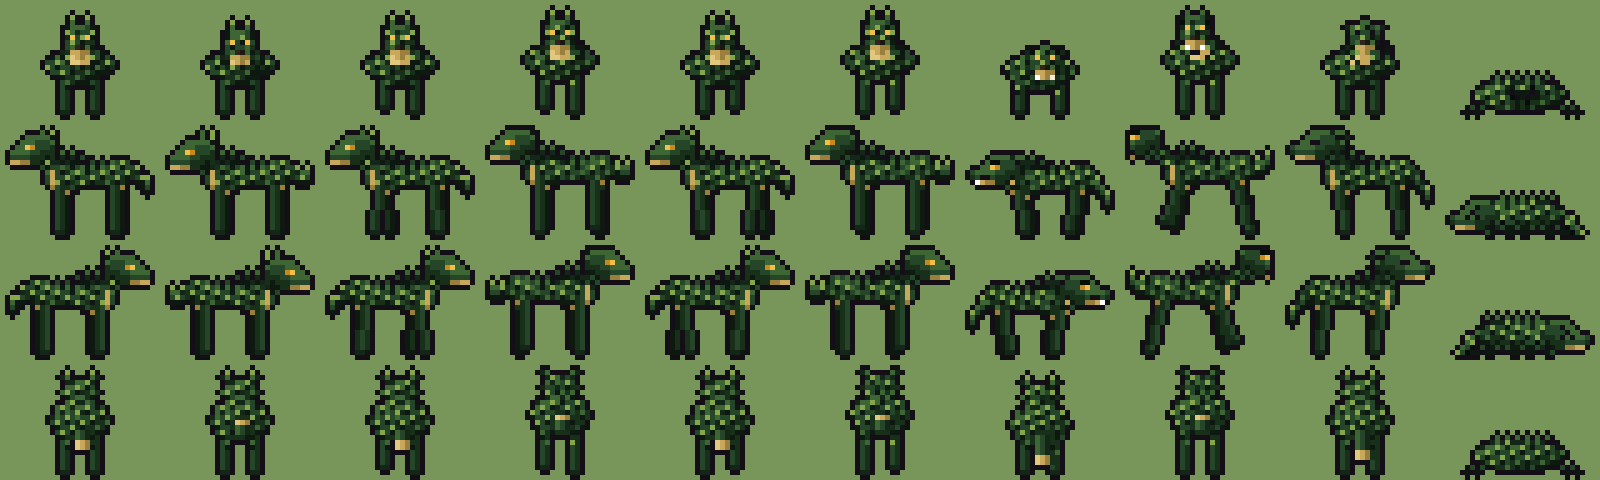
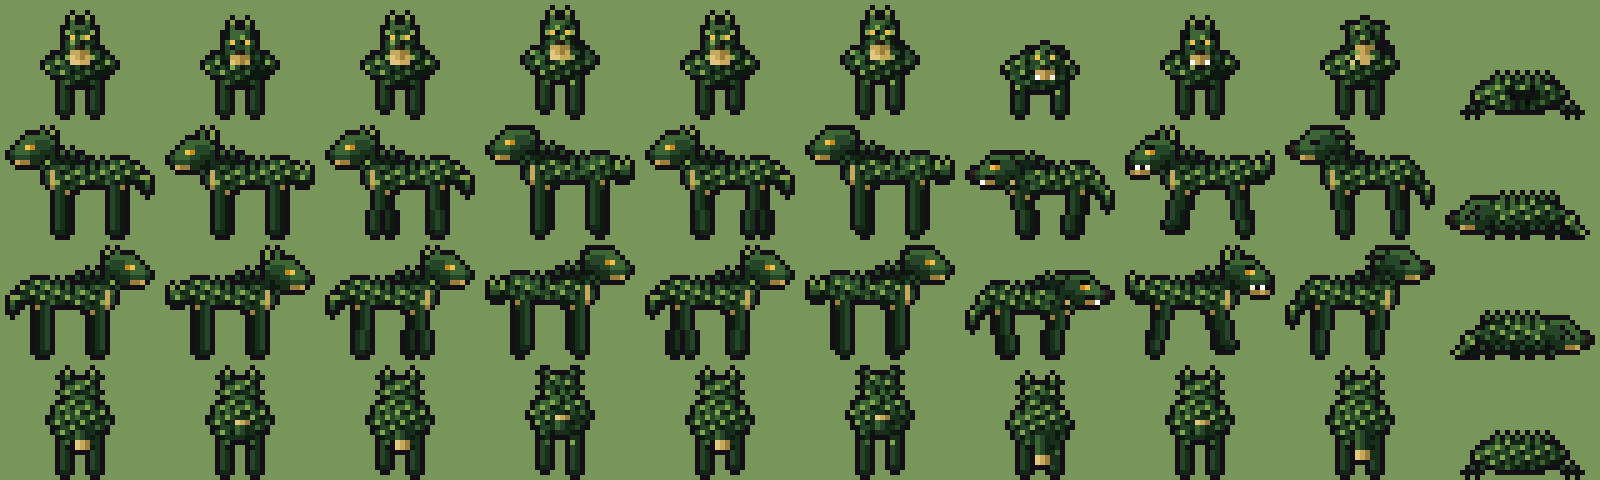
Mobs: Lobo-de-Capim attack pose keeps its head in the frame
The lunge's head was pushed past the frame's left edge and cut into a
squared-off stump. The attack now reaches with the legs and keeps the
same head as every other pose (jaws open, fangs); the muzzle is one
pixel shorter so the nose never touches the frame's edge.

Changed region(s): [[0.6875, 0.25, 0.8125, 0.9375], [0.7188, 0.0, 0.7812, 0.1875], [0.5938, 0.3438, 0.625, 0.375]]

diff --git a/src/engine/pixel/MonsterSprites.js b/src/engine/pixel/MonsterSprites.js
@@ -640,7 +640,7 @@ const WOLF_POSES = {
   idle0: { tail: 0 }, idle1: { head: [0, 1], tail: 1 },
   move0: { walk: 0 }, move1: { walk: 1, body: -1, tail: 1 }, move2: { walk: 2 }, move3: { walk: 3, body: -1, tail: 1 },
   windup: { head: [1, 3], body: 1, ears: 'flat', mouth: 'snarl', eye: 'angry', tail: -1, legs: [[1, 0], [1, 0], [-1, 0], [-1, 0]] },
-  attack: { head: [-3, -1], body: -1, mouth: 'open', eye: 'angry', tail: 2, legs: [[-3, 2], [-2, 1], [3, 0], [2, 0]] },
+  attack: { head: [0, 1], body: 0, mouth: 'open', eye: 'angry', tail: 2, legs: [[-2, 1], [-1, 1], [2, 0], [1, 0]] },
   hurt: { head: [1, -1], ears: 'flat', eye: 'shut', tail: -1, legs: [[1, 0], [0, 0], [1, 0], [0, 0]] },
   dead: { dead: true },
 };
@@ -691,18 +691,19 @@ function wolfHeadSide(p, hx, hy, P) {
   blob(p, hx, hy, 3.6, 3, M.FUR, { hi: 0.35, lo: -0.3 });
   // the long muzzle: straw on the underside, a dark nose at the tip
   const open = P.mouth === 'open', snarl = P.mouth === 'snarl';
-  for (let x = hx - 6; x <= hx - 2; x++) {
-    p.set(x, hy, M.FUR, x === hx - 6 ? 2 : 3);
-    p.set(x, hy + 1, M.FUR, x === hx - 6 ? 1 : 2);
-    if (!open && x > hx - 6) p.set(x, hy + 2, M.FUR3, x < hx - 3 ? 2 : 1); // the straw chin
+  for (let x = hx - 5; x <= hx - 2; x++) {
+    p.set(x, hy, M.FUR, x === hx - 5 ? 2 : 3);
+    p.set(x, hy + 1, M.FUR, x === hx - 5 ? 1 : 2);
+    if (!open && x > hx - 5) p.set(x, hy + 2, M.FUR3, x < hx - 3 ? 2 : 1); // the straw chin
   }
-  p.set(hx - 7, hy, M.NOSE, 2); p.set(hx - 7, hy + 1, M.NOSE, 1);
+  p.set(hx - 6, hy, M.NOSE, 2); p.set(hx - 6, hy + 1, M.NOSE, 1);
   if (open) {
-    // jaw dropped: a dark mouth, white fangs, the lower jaw below
-    for (let x = hx - 6; x <= hx - 2; x++) { p.set(x, hy + 2, M.EYE, 0); p.set(x, hy + 3, M.FUR3, x < hx - 3 ? 2 : 1); }
-    p.set(hx - 5, hy + 2, M.BONE, 4); p.set(hx - 3, hy + 2, M.BONE, 3);
+    // jaws apart: the dark mouth between the muzzle and the dropped lower jaw, two white fangs
+    for (let x = hx - 5; x <= hx - 2; x++) { p.set(x, hy + 2, M.EYE, 0); p.set(x, hy + 3, M.FUR3, x < hx - 3 ? 2 : 1); }
+    p.set(hx - 5, hy + 3, M.FUR3, 1);
+    p.set(hx - 4, hy + 2, M.BONE, 4); p.set(hx - 2, hy + 2, M.BONE, 3);
   } else if (snarl) {
-    p.set(hx - 5, hy + 2, M.BONE, 4); p.set(hx - 4, hy + 1, M.EYE, 0); p.set(hx - 3, hy + 1, M.EYE, 0);
+    p.set(hx - 4, hy + 2, M.BONE, 4); p.set(hx - 3, hy + 1, M.EYE, 0); p.set(hx - 2, hy + 1, M.EYE, 0);
   }
   // cheek ruff: two leaf tips at the jaw
   p.set(hx + 2, hy + 3, M.FUR2, 1); p.set(hx + 3, hy + 2, M.FUR2, 2); p.set(hx + 1, hy + 3, M.FUR, 2);
